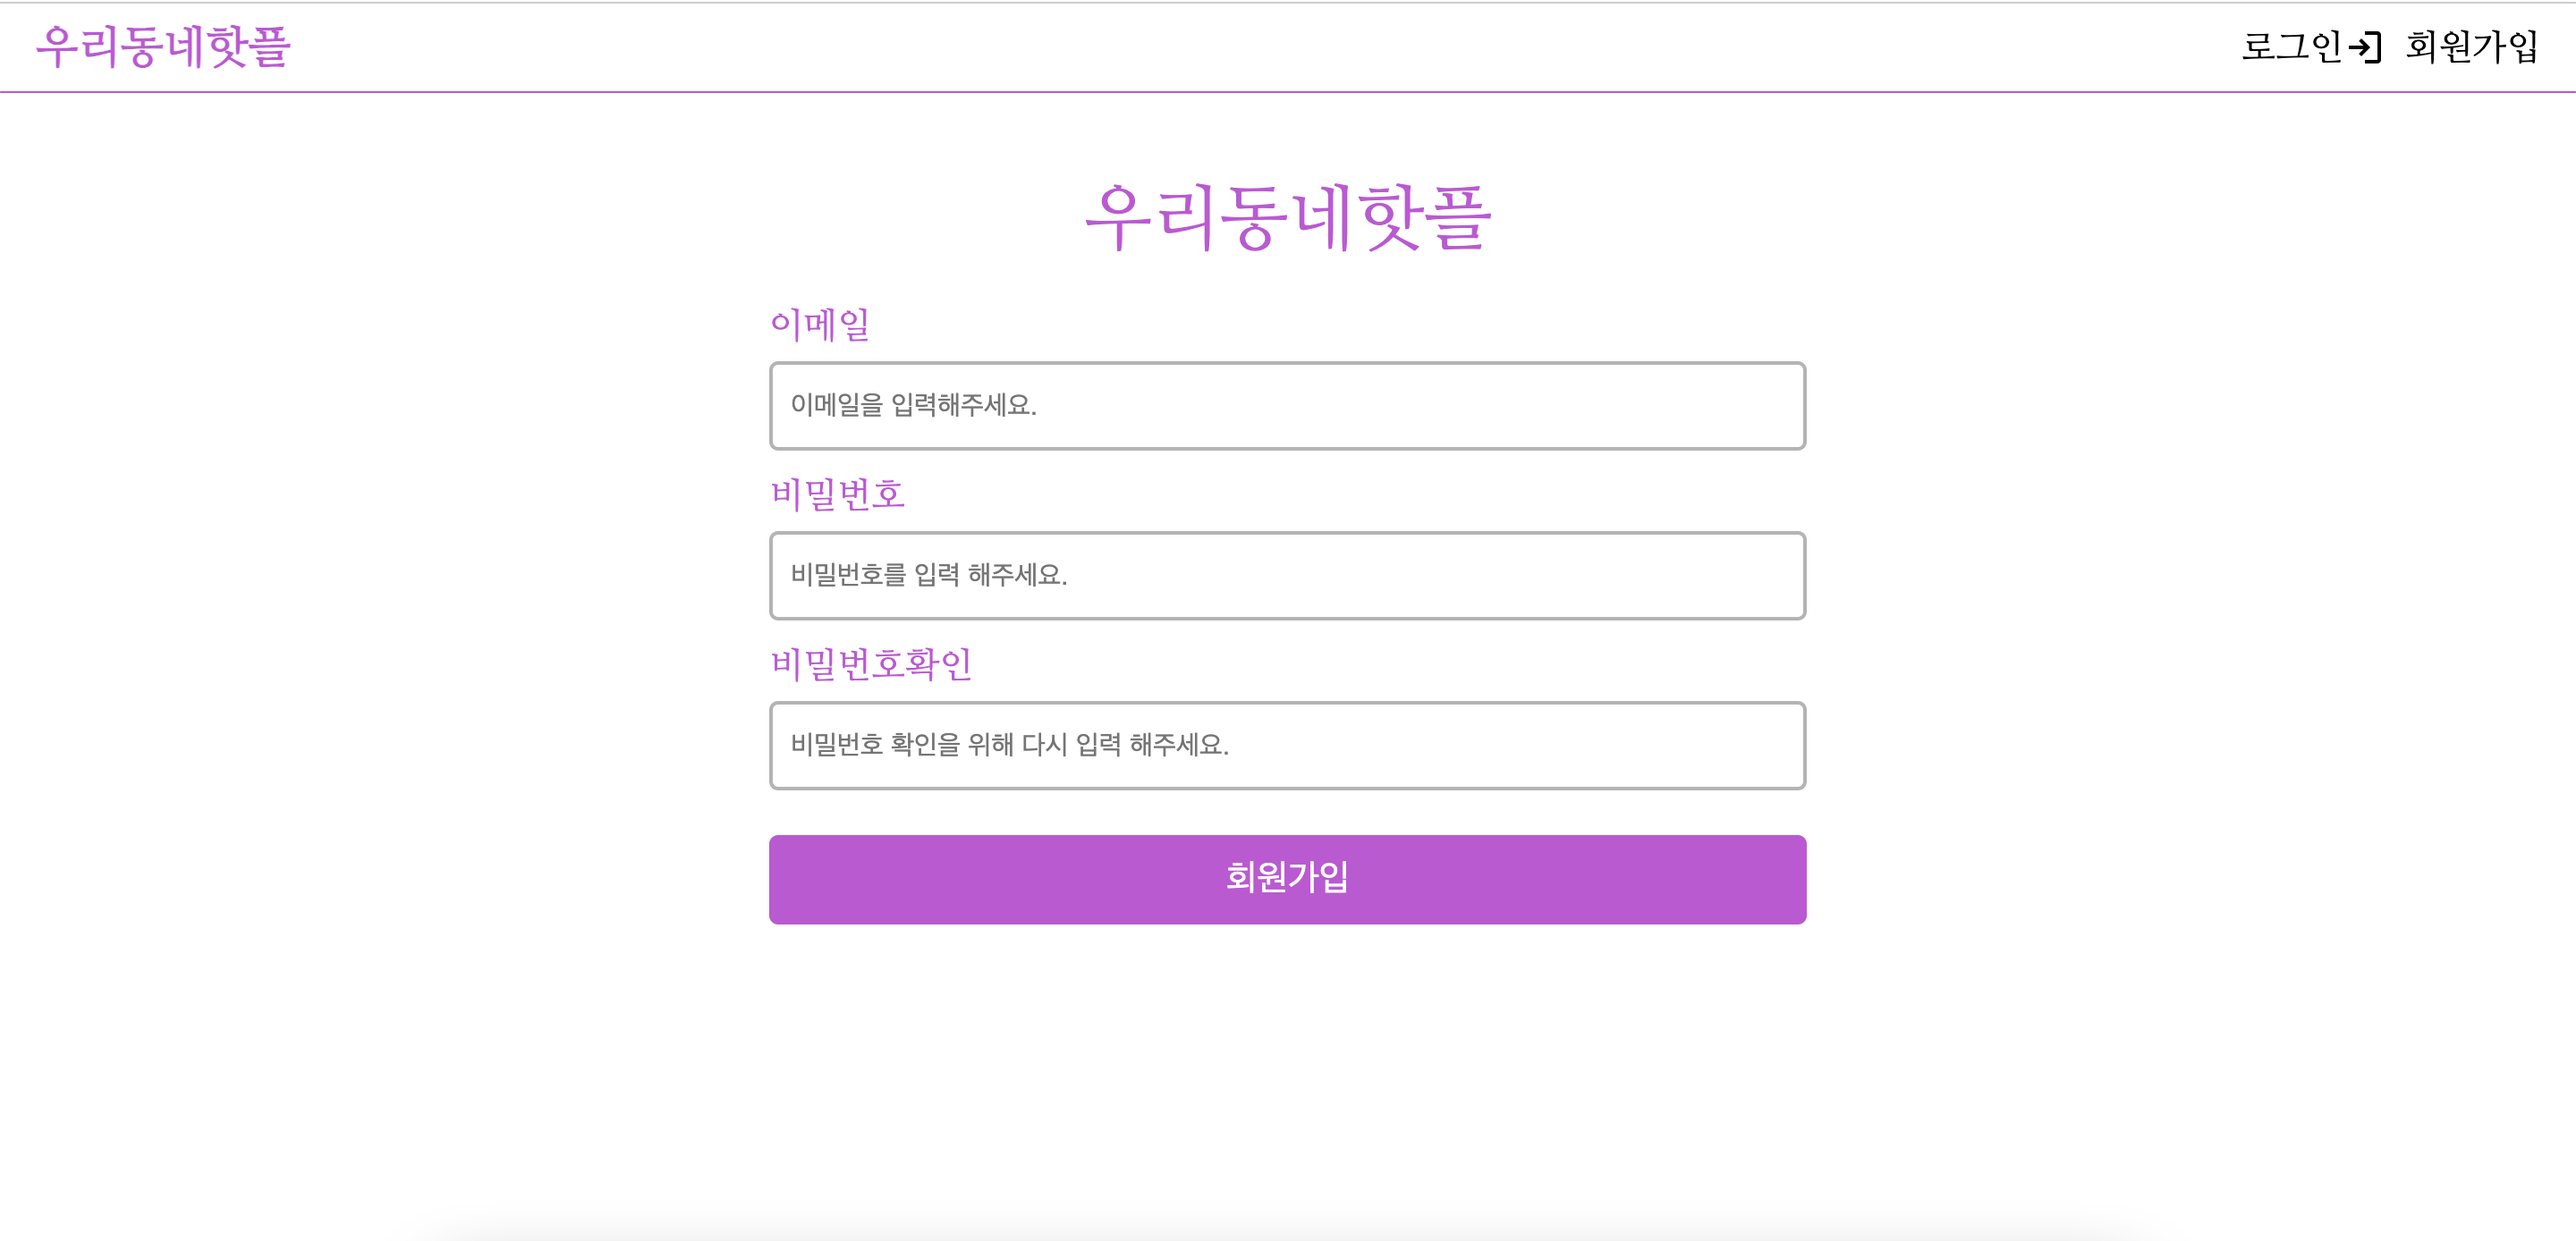
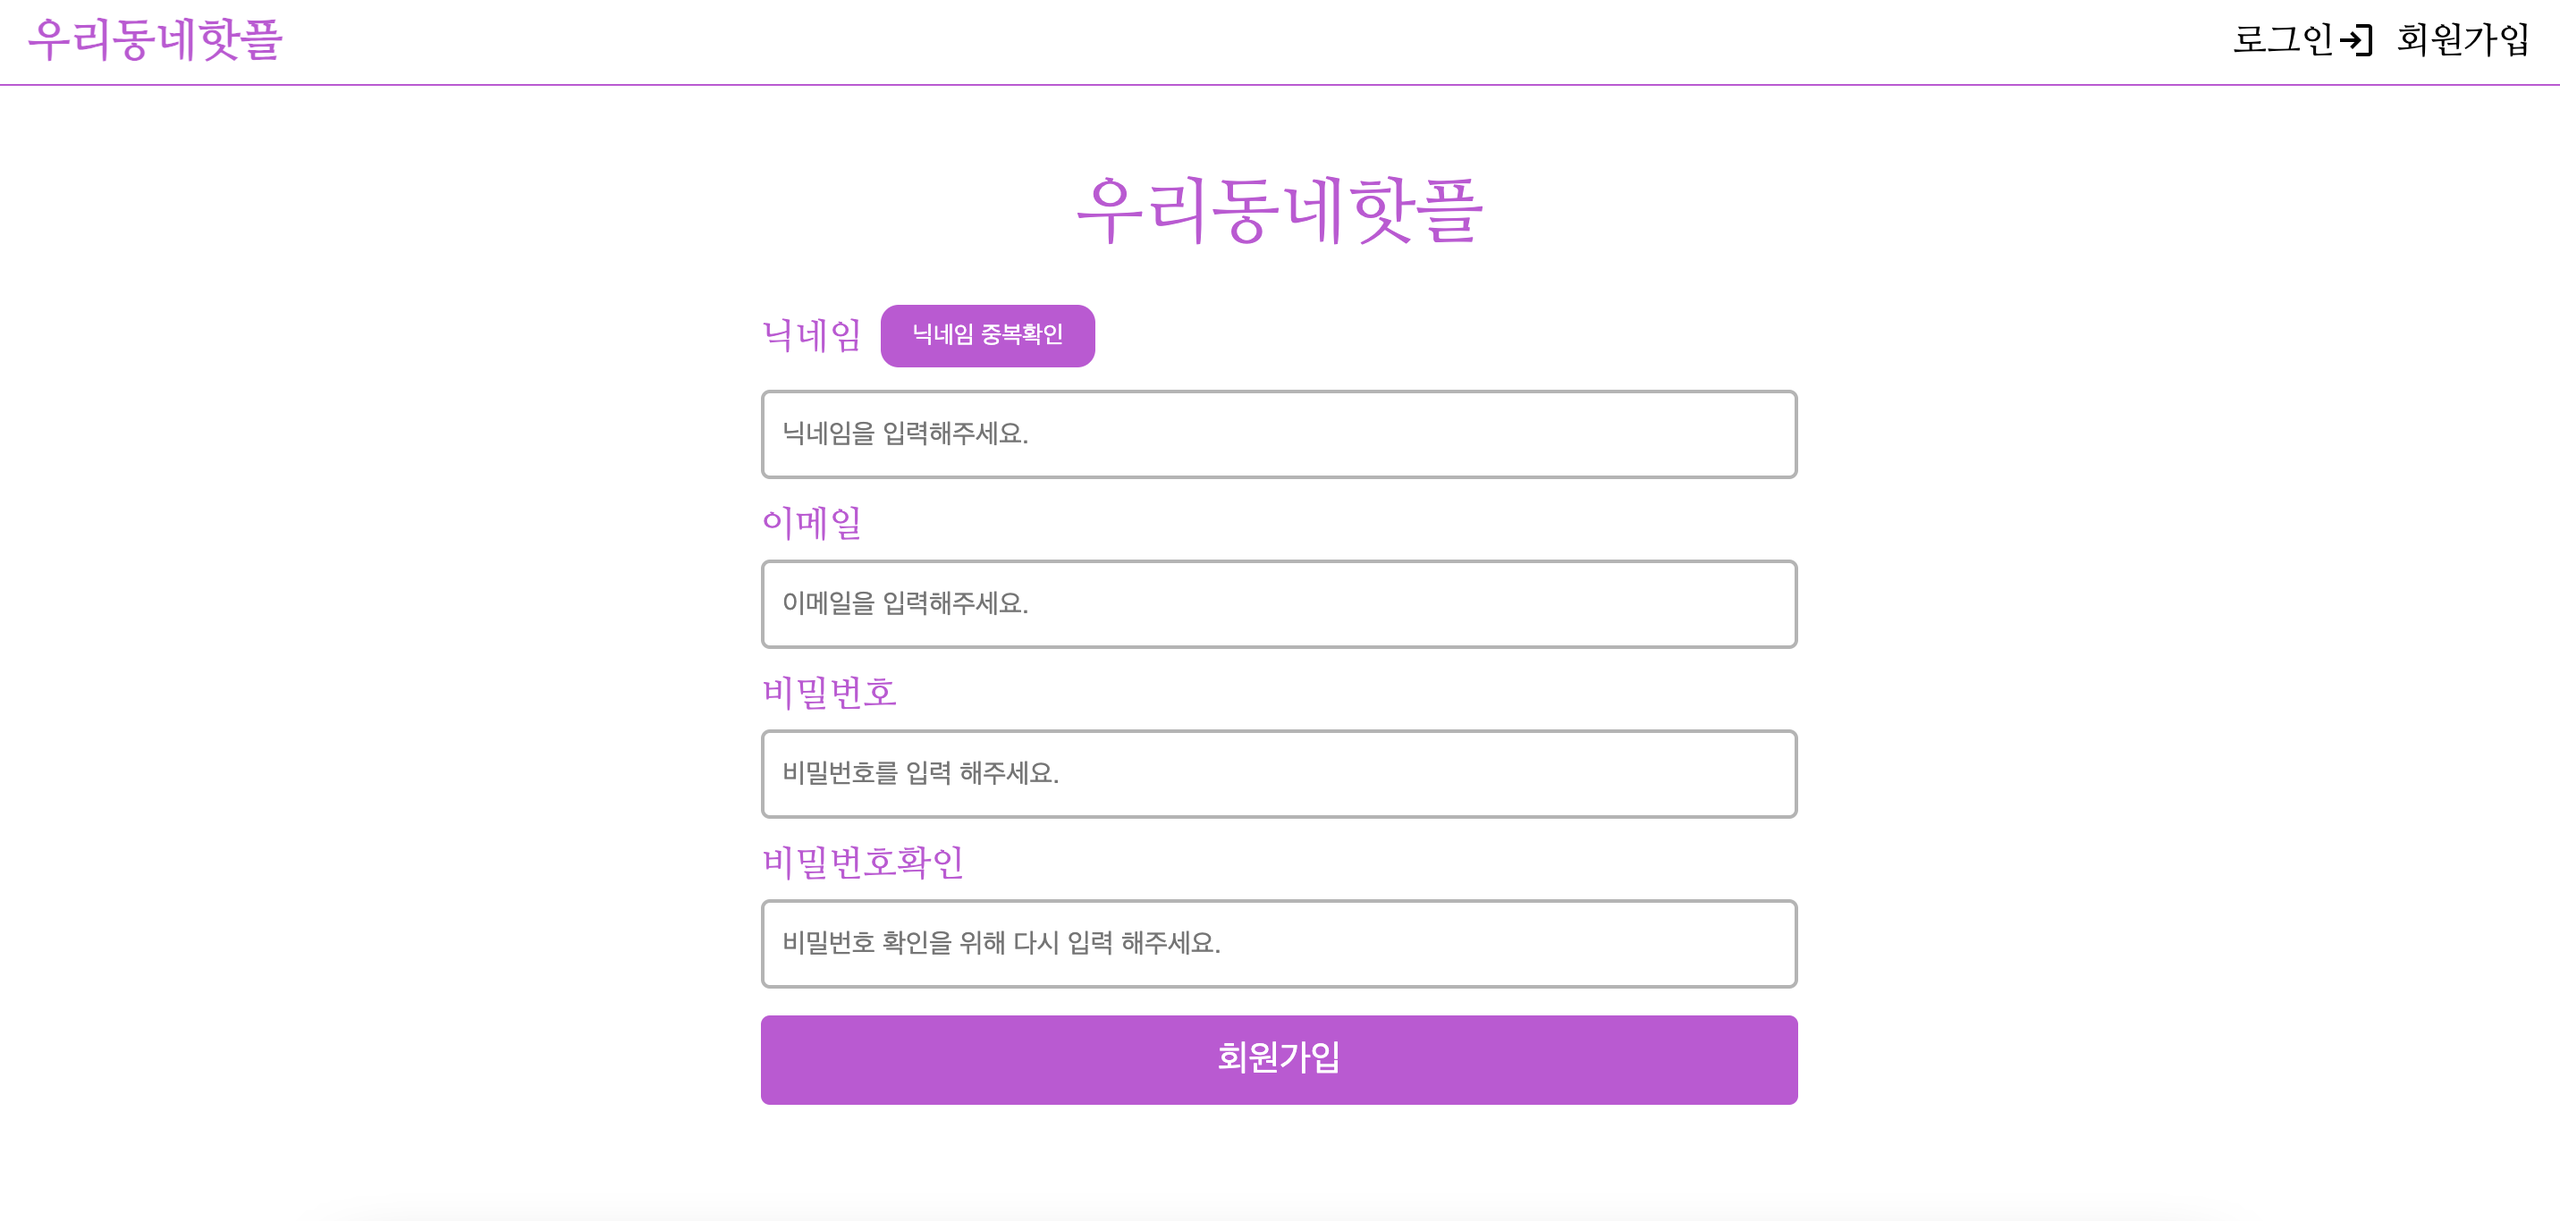
회원가입 거절 모달 생성

diff --git a/src/pages/Signup.js b/src/pages/Signup.js
@@ -7,6 +7,7 @@ import SignupSuccessModal from "../components/SignupSuccessModal";
 import { useRecoilValue, useSetRecoilState } from "recoil";
 import { hamburgerBtnClick } from "../recoils/UserAtom";
 import { addDoc, collection, doc, getDoc, setDoc } from "firebase/firestore";
+import RejectSignupModal from "../components/RejectSignupModal";
 
 // 회원가입을 하면 바로 자동으로 로그인이 되고 페이지가 회원가입 페이지에 머물어 있는 문제가 있다.
 // 회원가입 하면 자동으로 홈 페이지로 이동하고 로그아웃되며 회원가입 때 입력한 이메일과 비밀번호로 로그인 하도록 만들기.
@@ -22,6 +23,7 @@ const Signup = () => {
   const [isSignupSuccessModal, setIsSignSuccessModal] = useState(false);
   const [inputNewNickname, setInputNewNickname] = useState(""); // 입력하는 닉네임 state
   const [isNicknameOverlap, setIsNicknameOverlap] = useState(""); // 닉네임 중복 검사 여부 state
+  const [isRejectSignupModal, setIsRejectSignupModal] = useState(false);
   // 입력하는 이메일과 비밀번호의 input 태그에서 onchange 이벤트가 발생하면 호출
   const onchangeInput = useCallback((event) => {
     const { name, value } = event.target;
@@ -68,8 +70,9 @@ const Signup = () => {
   const onsubmitSignUpButton = async (e) => {
     try {
       e.preventDefault();
-      if (isNicknameOverlap !== true) {
-        alert("닉네임을 입력하고 중복 확인을 진행 해주세요.");
+      document.body.style.overflow = "hidden";
+      if (isNicknameOverlap !== true || checkPasswordApproval !== true) {
+        setIsRejectSignupModal((prev) => !prev);
         return;
       }
       setIsSignSuccessModal((prev) => !prev);
@@ -85,6 +88,7 @@ const Signup = () => {
         inputNewPassword
       );
       await signOut(authService);
+      document.body.style.overflow = "";
       setIsSignSuccessModal((prev) => !prev);
       navigate("/login");
       console.log(createData);
@@ -223,6 +227,9 @@ const Signup = () => {
         </SignupStyle.SignupForm>
       </SignupStyle.SignupBack>
       {isSignupSuccessModal && <SignupSuccessModal />}
+      {isRejectSignupModal && (
+        <RejectSignupModal setIsRejectSignupModal={setIsRejectSignupModal} />
+      )}
     </>
   );
 };

diff --git a/src/styles/componenet/RejectSignupModalStyle.js b/src/styles/componenet/RejectSignupModalStyle.js
@@ -1,0 +1,65 @@
+import styled from "styled-components";
+
+export const RejectSignupModalBack = styled.div`
+  width: 100%;
+  height: 100%;
+  position: fixed;
+  background-color: rgba(0, 0, 0, 0.5);
+  display: flex;
+  justify-content: center;
+  align-items: center;
+  top: 0;
+  left: 0;
+`;
+
+export const RejectSignupModalBox = styled.div`
+  width: 450px;
+  height: 120px;
+  border-radius: 10px;
+  border: 3px solid mediumorchid;
+  background-color: white;
+  display: flex;
+  flex-direction: column;
+  align-items: center;
+  justify-content: center;
+  padding: 20px 10px;
+  @media screen and (max-width: 768px) {
+    width: 300px;
+  }
+`;
+
+export const RejectSignupModalTextBox = styled.div`
+  width: 100%;
+  height: 50px;
+  display: flex;
+  justify-content: center;
+  align-items: center;
+`;
+
+export const RejectSignupModalText = styled.span`
+  font-size: 20px;
+  @media screen and (max-width: 768px) {
+    font-size: 18px;
+  }
+`;
+
+export const RejectSignupModalBtnBox = styled.div`
+  width: 100%;
+  margin-top: 20px;
+  display: flex;
+  justify-content: space-evenly;
+`;
+
+export const RejectSignupModalConfirmBtn = styled.button`
+  width: 100px;
+  height: 35px;
+  border: none;
+  border-radius: 10px;
+  font-size: 15px;
+  background-color: mediumorchid;
+  display: flex;
+  justify-content: center;
+  align-items: center;
+  color: white;
+  cursor: pointer;
+`;

diff --git a/src/components/RejectSignupModal.js b/src/components/RejectSignupModal.js
@@ -1,0 +1,28 @@
+import React from "react";
+import * as RejectSignupModalStyle from "../styles/componenet/RejectSignupModalStyle";
+const RejectSignupModal = ({ setIsRejectSignupModal }) => {
+  const onclickConfirmBtn = () => {
+    setIsRejectSignupModal((prev) => !prev);
+    document.body.style.overflow = "";
+  };
+  return (
+    <RejectSignupModalStyle.RejectSignupModalBack>
+      <RejectSignupModalStyle.RejectSignupModalBox>
+        <RejectSignupModalStyle.RejectSignupModalTextBox>
+          <RejectSignupModalStyle.RejectSignupModalText>
+            닉네임 중복확인 또는 비밀번호 확인을 진행 해주세요.
+          </RejectSignupModalStyle.RejectSignupModalText>
+        </RejectSignupModalStyle.RejectSignupModalTextBox>
+        <RejectSignupModalStyle.RejectSignupModalBtnBox>
+          <RejectSignupModalStyle.RejectSignupModalConfirmBtn
+            onClick={onclickConfirmBtn}
+          >
+            확인
+          </RejectSignupModalStyle.RejectSignupModalConfirmBtn>
+        </RejectSignupModalStyle.RejectSignupModalBtnBox>
+      </RejectSignupModalStyle.RejectSignupModalBox>
+    </RejectSignupModalStyle.RejectSignupModalBack>
+  );
+};
+
+export default RejectSignupModal;

diff --git a/src/styles/pages/SignupStyle.js b/src/styles/pages/SignupStyle.js
@@ -50,6 +50,7 @@ export const InputBox = styled.div`
 export const InputText = styled.label`
   font-size: 20px;
   color: mediumorchid;
+  white-space: nowrap;
 `;
 // 이메일 입력 input 스타일 태그
 export const SignupInput = styled.input`
@@ -113,4 +114,9 @@ export const OverlapNicknameCheckBtn = styled.button`
 export const NicknameOverlapCheckText = styled.span`
   font-size: 20px;
   color: red;
+  margin-left: 10px;
+  @media screen and (max-width: 768px) {
+    font-size: 15px;
+    margin-left: 5px;
+  }
 `;
